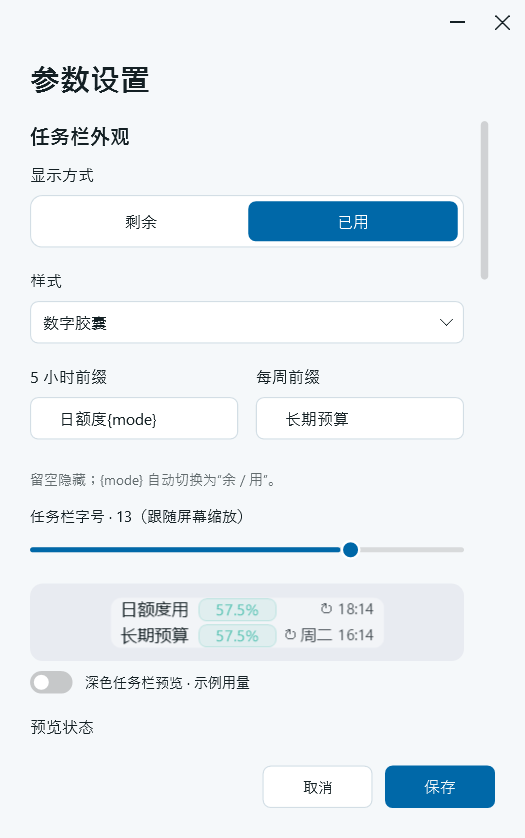
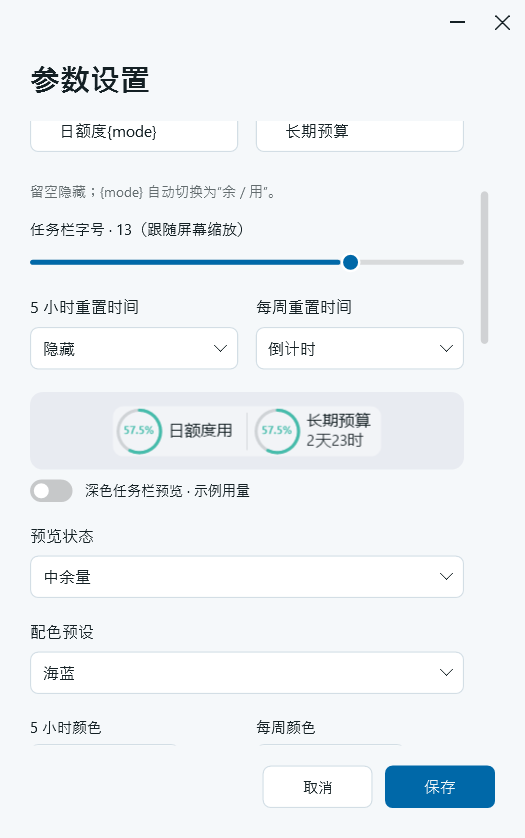
Update taskbar rings, reset date wrapping and portable package

diff --git a/MeterRenderer.cs b/MeterRenderer.cs
@@ -1,4 +1,4 @@
-using System;
+using System;
 using System.Drawing;
 using System.Drawing.Drawing2D;
 using System.Globalization;
@@ -20,26 +20,41 @@ namespace WindowsUsageWidget
             var text=ColorValue(p.TaskbarTextColor,dark?Color.FromArgb(239,246,248):Color.FromArgb(20,32,36));
             var background=ColorValue(p.TaskbarBackgroundColor,dark?Color.FromArgb(17,25,35):Color.White);
             var alpha=(int)(255*p.TaskbarBackgroundOpacity/100.0);
-            if(p.TaskbarStyle!="Cards"&&alpha>0)FillRound(g,new RectangleF(1,1,width-2,height-2),(float)(8*scale),Color.FromArgb(alpha,background));
+            if(p.TaskbarStyle!="Cards"&&p.TaskbarStyle!="Rings"&&alpha>0)FillRound(g,new RectangleF(1,1,width-2,height-2),(float)(8*scale),Color.FromArgb(alpha,background));
+            if(p.TaskbarStyle=="Rings")
+            {
+                var primary=snapshot==null?null:snapshot.Primary;var secondary=snapshot==null?null:snapshot.Secondary;
+                var gap=(int)Math.Round(6*scale);var maximum=(width-gap)/2;
+                var first=Math.Min(maximum,MeasureRingPanel(g,height,scale,primary,p,false));
+                var second=Math.Min(maximum,MeasureRingPanel(g,height,scale,secondary,p,true));
+                var total=first+second+gap;var start=(width-total)/2;
+                if(alpha>0)FillRound(g,new RectangleF(start,1,total,height-2),(float)(8*scale),Color.FromArgb(alpha,background));
+                DrawRingPanel(g,start,first,height,scale,primary,p,stale,text,dark,false);
+                DrawRingPanel(g,start+first+gap,second,height,scale,secondary,p,stale,text,dark,true);
+                var separator=start+first+gap/2;
+                using(var pen=new Pen(Color.FromArgb(35,text),1))g.DrawLine(pen,separator,(float)(6*scale),separator,height-(float)(6*scale));
+                return;
+            }
             var physicalFont=(float)Math.Min(p.TaskbarFontSize*scale,Math.Max(7,(height/2.0-1)*.9));
             using(var font=new Font("Segoe UI",physicalFont,FontStyle.Regular,GraphicsUnit.Pixel))
             {
-                DrawRow(g,font,width,p.TaskbarLabel(false),snapshot==null?null:snapshot.Primary,0,height/2,scale,p,stale,text,background,alpha,dark,false);
-                DrawRow(g,font,width,p.TaskbarLabel(true),snapshot==null?null:snapshot.Secondary,height/2,height-height/2,scale,p,stale,text,background,alpha,dark,true);
+                var resets=new[] { ResetText(snapshot==null?null:snapshot.Primary,p,false,true),ResetText(snapshot==null?null:snapshot.Secondary,p,true,true) };
+                DrawRow(g,font,width,p.TaskbarLabel(false),snapshot==null?null:snapshot.Primary,0,height/2,scale,p,stale,text,background,alpha,dark,false,resets);
+                DrawRow(g,font,width,p.TaskbarLabel(true),snapshot==null?null:snapshot.Secondary,height/2,height-height/2,scale,p,stale,text,background,alpha,dark,true,resets);
             }
         }
-        static void DrawRow(Graphics g,Font font,int totalWidth,string name,Limit value,int y,int height,double scale,Preferences p,bool stale,Color text,Color background,int alpha,bool dark,bool weekly)
+        static void DrawRow(Graphics g,Font font,int totalWidth,string name,Limit value,int y,int height,double scale,Preferences p,bool stale,Color text,Color background,int alpha,bool dark,bool weekly,string[] resets)
         {
             int pad=(int)Math.Round(6*scale),gap=(int)Math.Round(3*scale);
             using(var resetFont=new Font("Segoe UI",(float)Math.Max(7,font.Size-scale),FontStyle.Regular,GraphicsUnit.Pixel))
             {
             int number=(int)Math.Ceiling(Math.Max(g.MeasureString("100%",font).Width,g.MeasureString("99.9%",font).Width)+2*scale);
-            int resetWidth=(int)Math.Ceiling(g.MeasureString("↻ 周四 23:59",resetFont).Width+2*scale);
+            var resetCaption=ResetText(value,p,weekly,true);
+            int resetWidth=resets[0].Length==0&&resets[1].Length==0?0:Math.Min((int)(totalWidth*.42),(int)Math.Ceiling(Math.Max(g.MeasureString(resets[0],resetFont).Width,g.MeasureString(resets[1],resetFont).Width)+2*scale));
             var labelLimit=Math.Max(0,totalWidth-number-resetWidth-pad*2-gap*3-(int)(14*scale));
             var first=p.TaskbarLabel(false);var second=p.TaskbarLabel(true);
             int label=first.Length==0&&second.Length==0?0:Math.Min(labelLimit,(int)Math.Ceiling(Math.Max(g.MeasureString(first,font).Width,g.MeasureString(second,font).Width)+scale));
-            var accent=ColorValue(weekly?p.TaskbarSecondaryColor:p.TaskbarPrimaryColor,weekly?(dark?Color.FromArgb(162,181,255):Color.FromArgb(88,104,203)):(dark?Color.FromArgb(104,219,197):Color.FromArgb(0,128,107)));
-            var color=stale?ColorValue(p.TaskbarStaleColor,Color.FromArgb(225,92,92)):value!=null&&value.Remaining<=p.WarningPercent?ColorValue(p.TaskbarWarningColor,Color.FromArgb(235,176,72)):value!=null&&value.Remaining<=p.TaskbarMediumPercent?ColorValue(p.TaskbarMediumColor,dark?Color.FromArgb(230,207,135):Color.FromArgb(138,107,25)):accent;
+            var accent=Accent(p,dark,weekly);var color=QuotaColor(value,p,stale,dark,weekly);
             if(p.TaskbarStyle=="Cards")
             {
                 var card=new RectangleF(1,y+1,totalWidth-2,height-2);
@@ -55,12 +70,6 @@ namespace WindowsUsageWidget
                 var badge=new RectangleF(x,y+2,width+number+gap,height-4);
                 FillRound(g,badge,(float)(6*scale),Color.FromArgb(28,color));
                 using(var path=Round(badge,(float)(6*scale)))using(var pen=new Pen(Color.FromArgb(70,color),1))g.DrawPath(pen,path);
-            }
-            else if(p.TaskbarStyle=="Rings")
-            {
-                var diameter=Math.Min(height-6,(float)(13*scale));var ring=new RectangleF(x+(width-diameter)/2,y+(height-diameter)/2,diameter,diameter);
-                using(var pen=new Pen(track,(float)(2*scale)))g.DrawEllipse(pen,ring);
-                if(value!=null&&amount>0)using(var pen=new Pen(color,(float)(2*scale)) { StartCap=LineCap.Round,EndCap=LineCap.Round })g.DrawArc(pen,ring,-90,(float)(359.9*amount/100));
             }
             else if(p.TaskbarStyle=="Dots")
             {
@@ -101,9 +110,77 @@ namespace WindowsUsageWidget
             }
             var caption=value==null?"—":amount.ToString("0.#")+"%";
             using(var brush=new SolidBrush(value==null?text:color))using(var format=new StringFormat { Alignment=p.TaskbarStyle=="Badges"?StringAlignment.Center:StringAlignment.Far,LineAlignment=StringAlignment.Center,FormatFlags=StringFormatFlags.NoWrap })g.DrawString(caption,font,brush,p.TaskbarStyle=="Badges"?new RectangleF(x,y,width+number+gap,height):new RectangleF(x+width+gap,y,number,height),format);
-            using(var brush=new SolidBrush(Color.FromArgb(195,text)))
-            using(var format=new StringFormat { Alignment=StringAlignment.Far,LineAlignment=StringAlignment.Center,FormatFlags=StringFormatFlags.NoWrap })
-                g.DrawString(value==null?"↻ —":value.CompactReset(weekly),resetFont,brush,new RectangleF(totalWidth-resetWidth-pad,y,resetWidth,height),format);
+            using(var brush=new SolidBrush(text))
+            using(var format=new StringFormat { Alignment=StringAlignment.Far,LineAlignment=StringAlignment.Center,Trimming=StringTrimming.EllipsisCharacter,FormatFlags=StringFormatFlags.NoWrap })
+                if(resetWidth>0)g.DrawString(resetCaption,resetFont,brush,new RectangleF(totalWidth-resetWidth-pad,y,resetWidth,height),format);
+            }
+        }
+        static Color Accent(Preferences p,bool dark,bool weekly) { return ColorValue(weekly?p.TaskbarSecondaryColor:p.TaskbarPrimaryColor,weekly?(dark?Color.FromArgb(162,181,255):Color.FromArgb(88,104,203)):(dark?Color.FromArgb(104,219,197):Color.FromArgb(0,128,107))); }
+        static Color QuotaColor(Limit value,Preferences p,bool stale,bool dark,bool weekly)
+        {
+            return stale?ColorValue(p.TaskbarStaleColor,Color.FromArgb(225,92,92)):value!=null&&value.Remaining<=p.WarningPercent?ColorValue(p.TaskbarWarningColor,Color.FromArgb(235,176,72)):value!=null&&value.Remaining<=p.TaskbarMediumPercent?ColorValue(p.TaskbarMediumColor,dark?Color.FromArgb(230,207,135):Color.FromArgb(138,107,25)):Accent(p,dark,weekly);
+        }
+        static string ResetText(Limit value,Preferences p,bool weekly,bool icon)
+        {
+            var style=weekly?p.TaskbarWeeklyResetStyle:p.TaskbarPrimaryResetStyle;
+            if(style=="Hidden")return "";
+            return (icon?"↻ ":"")+(value==null?"—":value.ResetDisplay(style));
+        }
+        static void DrawRingPanel(Graphics g,int left,int width,int height,double scale,Limit value,Preferences p,bool stale,Color text,bool dark,bool weekly)
+        {
+            var state=g.Save();g.SetClip(new Rectangle(left,0,width,height));
+            try
+            {
+                var color=QuotaColor(value,p,stale,dark,weekly);var amount=value==null?0:Math.Max(0,Math.Min(100,p.ShowUsed?value.Used:value.Remaining));
+                var pad=(float)(4*scale);var diameter=Math.Max(8,Math.Min((float)(34*scale),height-(float)(6*scale)));
+                var circle=new RectangleF(left+pad,(height-diameter)/2,diameter,diameter);
+                using(var pen=new Pen(Color.FromArgb(dark?55:40,text),(float)(2.5*scale)))g.DrawEllipse(pen,circle);
+                if(value!=null&&amount>0)using(var pen=new Pen(color,(float)(2.5*scale)) { StartCap=LineCap.Round,EndCap=LineCap.Round })g.DrawArc(pen,circle,-90,(float)(359.9*amount/100));
+                var caption=value==null?"—":amount.ToString("0.#")+"%";
+                var numberSize=(float)Math.Min(p.TaskbarFontSize*scale,diameter*.36);
+                using(var probe=new Font("Segoe UI",numberSize,FontStyle.Bold,GraphicsUnit.Pixel))
+                {
+                    var measured=g.MeasureString(caption,probe).Width;var available=diameter-(float)(6*scale);
+                    if(measured>available)numberSize*=available/measured;
+                }
+                using(var numberFont=new Font("Segoe UI",Math.Max(6,numberSize),FontStyle.Bold,GraphicsUnit.Pixel))
+                using(var brush=new SolidBrush(value==null?text:color))
+                using(var format=new StringFormat { Alignment=StringAlignment.Center,LineAlignment=StringAlignment.Center,FormatFlags=StringFormatFlags.NoWrap })g.DrawString(caption,numberFont,brush,circle,format);
+                var reset=ResetText(value,p,weekly,false);var size=(float)Math.Min((p.TaskbarFontSize-1)*scale,Math.Max(7,(height/2.0-2)*.85));
+                var x=circle.Right+(float)(5*scale);var textWidth=Math.Max(1,left+width-pad-x);
+                var resetLines=reset.Length==0?new string[0]:new[] { reset };
+                using(var probe=new Font("Segoe UI",size,FontStyle.Regular,GraphicsUnit.Pixel))
+                {
+                    if(reset.Length>0&&g.MeasureString(reset,probe).Width>textWidth)
+                    {
+                        var split=reset.LastIndexOf(' ');
+                        if(split<0) { var day=reset.IndexOf('天');if(day>=0&&day<reset.Length-1)split=day+1; }
+                        if(split>0&&split<reset.Length-1)resetLines=new[] { reset.Substring(0,split).Trim(),reset.Substring(split).Trim() };
+                    }
+                }
+                var rows=1+resetLines.Length;
+                if(rows>2)size=(float)Math.Min(size,Math.Max(7,(height/(double)rows-.5)*.82));
+                using(var labelFont=new Font("Segoe UI",size,FontStyle.Regular,GraphicsUnit.Pixel))
+                using(var resetFont=new Font("Segoe UI",size,FontStyle.Regular,GraphicsUnit.Pixel))
+                using(var format=new StringFormat { Alignment=StringAlignment.Near,LineAlignment=StringAlignment.Center,Trimming=StringTrimming.EllipsisCharacter,FormatFlags=StringFormatFlags.NoWrap })
+                {
+                    var line=rows>2?height/(float)rows:(float)(16*scale);var top=(height-line*rows)/2;
+                    using(var brush=new SolidBrush(text))g.DrawString(p.TaskbarLabel(weekly),labelFont,brush,new RectangleF(x,top,textWidth,line),format);
+                    using(var brush=new SolidBrush(Color.FromArgb(225,text)))for(var i=0;i<resetLines.Length;i++)g.DrawString(resetLines[i],resetFont,brush,new RectangleF(x,top+line*(i+1),textWidth,line),format);
+                }
+            }
+            finally { g.Restore(state); }
+        }
+        static int MeasureRingPanel(Graphics g,int height,double scale,Limit value,Preferences p,bool weekly)
+        {
+            var size=(float)Math.Min((p.TaskbarFontSize-1)*scale,Math.Max(7,(height/2.0-2)*.85));
+            using(var font=new Font("Segoe UI",size,FontStyle.Regular,GraphicsUnit.Pixel))
+            {
+                var textWidth=g.MeasureString(p.TaskbarLabel(weekly),font).Width;
+                var reset=ResetText(value,p,weekly,false);
+                if(reset.Length>0)textWidth=Math.Max(textWidth,g.MeasureString(reset,font).Width);
+                var diameter=Math.Max(8,Math.Min((float)(34*scale),height-(float)(6*scale)));
+                return (int)Math.Ceiling(diameter+14*scale+textWidth);
             }
         }
         static GraphicsPath Round(RectangleF box,float radius)

diff --git a/AppearanceChecks.cs b/AppearanceChecks.cs
@@ -92,6 +92,36 @@ class AppearanceChecks
         }
         Require(true,"all styles render long custom labels and font sizes at 100,125,150,200 percent");
         File.WriteAllText(Path.Combine(folder,"dpi-render-checks.json"),serializer.Serialize(scaled));
+        var resetDefault=serializer.Deserialize<Preferences>("{}");resetDefault.Normalize();Require(resetDefault.TaskbarPrimaryResetStyle=="Clock"&&resetDefault.TaskbarWeeklyResetStyle=="Weekday","old reset configuration keeps clock and weekday");
+        var resetInvalid=new Preferences { TaskbarPrimaryResetStyle="bad",TaskbarWeeklyResetStyle=null };resetInvalid.Normalize();Require(resetInvalid.TaskbarPrimaryResetStyle=="Clock"&&resetInvalid.TaskbarWeeklyResetStyle=="Weekday","invalid reset styles fall back safely");
+        var epoch=new DateTime(1970,1,1,0,0,0,DateTimeKind.Utc);var reference=new DateTime(2026,10,10,0,0,0,DateTimeKind.Utc);
+        var resetLimit=new Limit { Reset=(long)(reference.AddDays(4).AddHours(23)-epoch).TotalSeconds };
+        Require(resetLimit.ResetDisplay("Countdown",reference)=="4天23时","weekly countdown uses days and hours");resetLimit.Reset=(long)(reference.AddHours(2).AddMinutes(3)-epoch).TotalSeconds;
+        Require(resetLimit.ResetDisplay("Countdown",reference)=="2时3分","short countdown uses hours and minutes");resetLimit.Reset=(long)(reference.AddSeconds(20)-epoch).TotalSeconds;Require(resetLimit.ResetDisplay("Countdown",reference)=="不足1分","sub-minute countdown remains visible");resetLimit.Reset=(long)(reference.AddSeconds(-1)-epoch).TotalSeconds;Require(resetLimit.ResetDisplay("Countdown",reference)=="待更新","expired countdown waits for server data");Require(new Limit().ResetDisplay("Countdown")=="—"&&resetLimit.ResetDisplay("Hidden")=="","unknown and hidden reset states");
+        var localReset=new DateTime(2026,10,15,14,27,0,DateTimeKind.Local);resetLimit.Reset=(long)(localReset.ToUniversalTime()-epoch).TotalSeconds;
+        Require(resetLimit.ResetDisplay("Clock")=="14:27"&&resetLimit.ResetDisplay("Weekday")=="周四 14:27"&&resetLimit.ResetDisplay("DateTime")=="10-15 14:27"&&resetLimit.ResetDisplay("Date")=="10-15","absolute reset formats use local time");
+        var resetStyles=new[] { "Weekday","Clock","Countdown","DateTime","Date","Hidden" };
+        using(var image=new Bitmap(820,530))using(var graphics=Graphics.FromImage(image))using(var title=new Font("Segoe UI",12))
+        {
+            graphics.Clear(Color.FromArgb(247,249,252));
+            for(var row=0;row<resetStyles.Length;row++)for(var col=0;col<2;col++)
+            {
+                var x=20+col*405;var y=10+row*86;graphics.DrawString(resetStyles[row]+(col==0?" / Light":" / Dark"),title,Brushes.DimGray,x,y);
+                var p=new Preferences { TaskbarStyle="Rings",TaskbarWeeklyResetStyle=resetStyles[row],TaskbarBackgroundOpacity=20 };
+                using(var tile=new Bitmap(360,42))using(var g=Graphics.FromImage(tile)) { g.Clear(col==0?Color.FromArgb(232,235,241):Color.FromArgb(32,35,42));MeterRenderer.Draw(g,260,42,1,sample,p,false,col==1);graphics.DrawImageUnscaled(tile,x,y+26); }
+            }
+            image.Save(Path.Combine(folder,"horizontal-rings-reset-preview.png"));
+        }
+        foreach(var style in resetStyles)foreach(var meterStyle in new[] { "Rounded","Segments","Cards","Dots","Gradient","Rings","Badges" })foreach(var factor in new[] { 1.0,1.25,1.5,2.0 })using(var image=new Bitmap((int)Math.Round(200*factor),(int)Math.Round(42*factor)))using(var g=Graphics.FromImage(image))
+        { var p=new Preferences { TaskbarStyle=meterStyle,TaskbarPrimaryResetStyle=style,TaskbarWeeklyResetStyle=style };MeterRenderer.Draw(g,image.Width,image.Height,factor,sample,p,false,true);MeterRenderer.Draw(g,image.Width,image.Height,factor,null,p,true,true); }
+        Require(true,"six reset formats render in all seven styles and four DPI scales");
+        using(var image=new Bitmap(260,42))using(var g=Graphics.FromImage(image))
+        {
+            var p=new Preferences { TaskbarStyle="Rings",TaskbarPrimaryColor="#FF3366",TaskbarSecondaryColor="#33AAFF" };MeterRenderer.Draw(g,260,42,1,sample,p,false,true);
+            var leftColor=false;var rightColor=false;
+            for(var y=0;y<image.Height;y++)for(var x=0;x<image.Width;x++) { var pixel=image.GetPixel(x,y);if(x<130&&pixel.R==255&&pixel.G==51&&pixel.B==102)leftColor=true;if(x>=130&&pixel.R==51&&pixel.G==170&&pixel.B==255)rightColor=true; }
+            Require(leftColor&&rightColor,"ring quotas render in separate left and right panels");
+        }
         var app=new Application();app.Resources.MergedDictionaries.Add(Styles.Create());
         var window=new SettingsWindow(new Preferences());Preferences saved=null;window.Saved+=delegate(Preferences p) { saved=p; };
         window.Loaded+=delegate
@@ -99,7 +129,9 @@ class AppearanceChecks
             try
             {
                 Require(Find<ComboBox>(window,"TaskbarStyle").Items.Count==7,"settings offers all seven styles");
-                Find<ComboBox>(window,"TaskbarStyle").SelectedIndex=6;
+                Find<ComboBox>(window,"TaskbarStyle").SelectedIndex=5;
+                Find<ComboBox>(window,"TaskbarPrimaryResetStyle").SelectedIndex=5;
+                Find<ComboBox>(window,"TaskbarWeeklyResetStyle").SelectedIndex=2;
                 var remaining=Find<RadioButton>(window,"QuotaRemaining");var used=Find<RadioButton>(window,"QuotaUsed");
                 used.IsChecked=true;Require(used.IsChecked==true&&remaining.IsChecked==false,"segmented switch selects used exclusively");
                 remaining.IsChecked=true;Require(used.IsChecked==false&&remaining.IsChecked==true,"segmented switch selects remaining exclusively");used.IsChecked=true;
@@ -114,14 +146,14 @@ class AppearanceChecks
                 Find<Slider>(window,"TaskbarMediumThreshold").Value=65;
                 Find<ComboBox>(window,"TaskbarPreviewState").SelectedIndex=1;
                 Find<ComboBox>(window,"TaskbarPreviewState").SelectedIndex=1;
-                Find<ScrollViewer>(window,"").ScrollToVerticalOffset(0);window.UpdateLayout();
+                Find<ScrollViewer>(window,"").ScrollToVerticalOffset(230);window.UpdateLayout();
                 var image=Find<System.Windows.Controls.Image>(window,"");var source=(System.Windows.Media.Imaging.BitmapSource)image.Source;var dpi=System.Windows.Media.VisualTreeHelper.GetDpi(window);
                 Require(source.PixelWidth==(int)Math.Round(220*dpi.DpiScaleX)&&Math.Abs(source.DpiX-96*dpi.DpiScaleX)<1,"preview rendered at current screen DPI without 96 DPI enlargement");
                 var capture=new System.Windows.Media.Imaging.RenderTargetBitmap((int)Math.Round(window.ActualWidth*dpi.DpiScaleX),(int)Math.Round(window.ActualHeight*dpi.DpiScaleY),96*dpi.DpiScaleX,96*dpi.DpiScaleY,System.Windows.Media.PixelFormats.Pbgra32);capture.Render(window);
                 var encoder=new System.Windows.Media.Imaging.PngBitmapEncoder();encoder.Frames.Add(System.Windows.Media.Imaging.BitmapFrame.Create(capture));using(var file=File.Create(Path.Combine(folder,"display-label-settings-preview.png")))encoder.Save(file);
                 Find<ComboBox>(window,"TaskbarPreviewState").SelectedIndex=3;
                 SaveButton(window).RaiseEvent(new RoutedEventArgs(Button.ClickEvent));
-                Require(saved!=null&&saved.TaskbarStyle=="Badges"&&saved.TaskbarPrimaryColor=="#1234AB"&&saved.TaskbarSecondaryColor=="#526CCC"&&saved.TaskbarBackgroundOpacity==45&&saved.TaskbarMediumColor=="#45BCAB"&&saved.TaskbarMediumPercent==65&&saved.ShowUsed&&saved.TaskbarPrimaryLabel=="日额度{mode}"&&saved.TaskbarSecondaryLabel=="长期预算"&&saved.TaskbarFontSize==13,"settings UI saves mode, custom labels, font size and appearance settings");
+                Require(saved!=null&&saved.TaskbarStyle=="Rings"&&saved.TaskbarPrimaryColor=="#1234AB"&&saved.TaskbarSecondaryColor=="#526CCC"&&saved.TaskbarBackgroundOpacity==45&&saved.TaskbarMediumColor=="#45BCAB"&&saved.TaskbarMediumPercent==65&&saved.ShowUsed&&saved.TaskbarPrimaryLabel=="日额度{mode}"&&saved.TaskbarSecondaryLabel=="长期预算"&&saved.TaskbarFontSize==13&&saved.TaskbarPrimaryResetStyle=="Hidden"&&saved.TaskbarWeeklyResetStyle=="Countdown","settings UI saves independent reset styles and horizontal ring selection");
                 File.WriteAllText(Path.Combine(folder,"appearance-checks.json"),serializer.Serialize(new { ok=true,checks=checks }));
             }
             catch(Exception e) { File.WriteAllText(Path.Combine(folder,"appearance-error.txt"),e.ToString());Environment.ExitCode=1;window.Close(); }

diff --git a/Data.cs b/Data.cs
@@ -24,6 +24,8 @@ namespace WindowsUsageWidget
         public string TaskbarPrimaryLabel { get; set; }
         public string TaskbarSecondaryLabel { get; set; }
         public int TaskbarFontSize { get; set; }
+        public string TaskbarPrimaryResetStyle { get; set; }
+        public string TaskbarWeeklyResetStyle { get; set; }
         public string TaskbarStyle { get; set; }
         public string TaskbarPrimaryColor { get; set; }
         public string TaskbarSecondaryColor { get; set; }
@@ -43,9 +45,9 @@ namespace WindowsUsageWidget
         public string CodexPath { get; set; }
         public int? X { get; set; }
         public int? Y { get; set; }
-        public Preferences() { RefreshSeconds=60; WarningPercent=20; AlwaysOnTop=true; StartMinimized=true; TaskbarQuota="Primary"; TaskbarSide="Right"; TaskbarMeterWidth=220; TaskbarPrimaryLabel="5小时{mode}";TaskbarSecondaryLabel="每周{mode}";TaskbarFontSize=12;TaskbarStyle="Rounded";TaskbarPrimaryColor="Auto";TaskbarSecondaryColor="Auto";TaskbarTextColor="Auto";TaskbarBackgroundColor="Auto";TaskbarWarningColor="#EBB048";TaskbarStaleColor="#E15C5C";TaskbarMediumColor="Auto";TaskbarMediumPercent=50;Theme="System"; Material="Solid"; AcrylicTintPercent=18; OpacityPercent=100; Width=360; Height=390; CodexPath=""; }
+        public Preferences() { RefreshSeconds=60; WarningPercent=20; AlwaysOnTop=true; StartMinimized=true; TaskbarQuota="Primary"; TaskbarSide="Right"; TaskbarMeterWidth=220; TaskbarPrimaryLabel="5小时{mode}";TaskbarSecondaryLabel="每周{mode}";TaskbarFontSize=12;TaskbarPrimaryResetStyle="Clock";TaskbarWeeklyResetStyle="Weekday";TaskbarStyle="Rounded";TaskbarPrimaryColor="Auto";TaskbarSecondaryColor="Auto";TaskbarTextColor="Auto";TaskbarBackgroundColor="Auto";TaskbarWarningColor="#EBB048";TaskbarStaleColor="#E15C5C";TaskbarMediumColor="Auto";TaskbarMediumPercent=50;Theme="System"; Material="Solid"; AcrylicTintPercent=18; OpacityPercent=100; Width=360; Height=390; CodexPath=""; }
         public static string FilePath { get { return Path.Combine(AppDomain.CurrentDomain.BaseDirectory, "settings.json"); } }
-        public void Normalize() { RefreshSeconds=Clamp(RefreshSeconds,15,3600); WarningPercent=Clamp(WarningPercent,0,100); AcrylicTintPercent=Clamp(AcrylicTintPercent,0,100); OpacityPercent=Clamp(OpacityPercent,50,100); Width=Clamp(Width,320,520); Height=Clamp(Height,390,650); TaskbarMeterWidth=Clamp(TaskbarMeterWidth,200,380);TaskbarOffset=Clamp(TaskbarOffset,-1200,1200);if(TaskbarSide!="Left")TaskbarSide="Right"; if(TaskbarQuota!="Secondary")TaskbarQuota="Primary"; if(Theme!="Dark"&&Theme!="Light")Theme="System"; if(Material!="Transparent")Material="Solid";if(Array.IndexOf(new[] { "Rounded","Segments","Cards","Dots","Gradient","Rings","Badges" },TaskbarStyle)<0)TaskbarStyle="Rounded";TaskbarBackgroundOpacity=Clamp(TaskbarBackgroundOpacity,0,100);TaskbarPrimaryColor=NormalizeColor(TaskbarPrimaryColor,"Auto");TaskbarSecondaryColor=NormalizeColor(TaskbarSecondaryColor,"Auto");TaskbarTextColor=NormalizeColor(TaskbarTextColor,"Auto");TaskbarBackgroundColor=NormalizeColor(TaskbarBackgroundColor,"Auto");TaskbarWarningColor=NormalizeColor(TaskbarWarningColor,"#EBB048");TaskbarStaleColor=NormalizeColor(TaskbarStaleColor,"#E15C5C");TaskbarMediumColor=NormalizeColor(TaskbarMediumColor,"Auto");TaskbarMediumPercent=Clamp(TaskbarMediumPercent,WarningPercent,100);TaskbarFontSize=Clamp(TaskbarFontSize,10,14);TaskbarPrimaryLabel=NormalizeLabel(TaskbarPrimaryLabel,"5小时{mode}");TaskbarSecondaryLabel=NormalizeLabel(TaskbarSecondaryLabel,"每周{mode}"); }
+        public void Normalize() { RefreshSeconds=Clamp(RefreshSeconds,15,3600); WarningPercent=Clamp(WarningPercent,0,100); AcrylicTintPercent=Clamp(AcrylicTintPercent,0,100); OpacityPercent=Clamp(OpacityPercent,50,100); Width=Clamp(Width,320,520); Height=Clamp(Height,390,650); TaskbarMeterWidth=Clamp(TaskbarMeterWidth,200,380);TaskbarOffset=Clamp(TaskbarOffset,-1200,1200);if(TaskbarSide!="Left")TaskbarSide="Right"; if(TaskbarQuota!="Secondary")TaskbarQuota="Primary"; if(Theme!="Dark"&&Theme!="Light")Theme="System"; if(Material!="Transparent")Material="Solid";if(Array.IndexOf(new[] { "Rounded","Segments","Cards","Dots","Gradient","Rings","Badges" },TaskbarStyle)<0)TaskbarStyle="Rounded";TaskbarBackgroundOpacity=Clamp(TaskbarBackgroundOpacity,0,100);TaskbarPrimaryColor=NormalizeColor(TaskbarPrimaryColor,"Auto");TaskbarSecondaryColor=NormalizeColor(TaskbarSecondaryColor,"Auto");TaskbarTextColor=NormalizeColor(TaskbarTextColor,"Auto");TaskbarBackgroundColor=NormalizeColor(TaskbarBackgroundColor,"Auto");TaskbarWarningColor=NormalizeColor(TaskbarWarningColor,"#EBB048");TaskbarStaleColor=NormalizeColor(TaskbarStaleColor,"#E15C5C");TaskbarMediumColor=NormalizeColor(TaskbarMediumColor,"Auto");TaskbarMediumPercent=Clamp(TaskbarMediumPercent,WarningPercent,100);TaskbarFontSize=Clamp(TaskbarFontSize,10,14);TaskbarPrimaryLabel=NormalizeLabel(TaskbarPrimaryLabel,"5小时{mode}");TaskbarSecondaryLabel=NormalizeLabel(TaskbarSecondaryLabel,"每周{mode}");TaskbarPrimaryResetStyle=NormalizeResetStyle(TaskbarPrimaryResetStyle,"Clock");TaskbarWeeklyResetStyle=NormalizeResetStyle(TaskbarWeeklyResetStyle,"Weekday"); }
         static string NormalizeLabel(string value,string fallback)
         {
             if(value==null)return fallback;
@@ -54,6 +56,7 @@ namespace WindowsUsageWidget
             return elements.Length>24?value.Substring(0,elements[24]):value;
         }
         public string TaskbarLabel(bool weekly) { return (weekly?TaskbarSecondaryLabel:TaskbarPrimaryLabel).Replace("{mode}",ShowUsed?"用":"余"); }
+        public static string NormalizeResetStyle(string value,string fallback) { return Array.IndexOf(new[] { "Weekday","Clock","Countdown","DateTime","Date","Hidden" },value)>=0?value:fallback; }
         public static bool IsColor(string value)
         {
             if(string.Equals(value,"Auto",StringComparison.OrdinalIgnoreCase))return true;
@@ -99,10 +102,26 @@ namespace WindowsUsageWidget
         }
         public string CompactReset(bool weekly)
         {
-            if(Reset<=0)return "↻ —";
+            return "↻ "+ResetDisplay(weekly?"Weekday":"Clock");
+        }
+        public string ResetDisplay(string style) { return ResetDisplay(style,DateTime.UtcNow); }
+        public string ResetDisplay(string style,DateTime utcNow)
+        {
+            if(style=="Hidden")return "";
+            if(Reset<=0)return "—";
+            if(style=="Countdown")
+            {
+                var seconds=Reset-(utcNow-new DateTime(1970,1,1,0,0,0,DateTimeKind.Utc)).TotalSeconds;
+                if(seconds<=0)return "待更新";
+                var left=TimeSpan.FromSeconds(seconds);
+                return left.TotalDays>=1?((int)left.TotalDays)+"天"+left.Hours+"时":left.TotalHours>=1?((int)left.TotalHours)+"时"+left.Minutes+"分":left.TotalMinutes>=1?((int)left.TotalMinutes)+"分":"不足1分";
+            }
             var absolute=new DateTime(1970,1,1,0,0,0,DateTimeKind.Utc).AddSeconds(Reset).ToLocalTime();
             var time=absolute.ToString("HH:mm",System.Globalization.CultureInfo.InvariantCulture);
-            return "↻ "+(weekly?"周"+"日一二三四五六"[(int)absolute.DayOfWeek]+" ":"")+time;
+            if(style=="Weekday")return "周"+"日一二三四五六"[(int)absolute.DayOfWeek]+" "+time;
+            if(style=="DateTime")return absolute.ToString("MM-dd HH:mm",System.Globalization.CultureInfo.InvariantCulture);
+            if(style=="Date")return absolute.ToString("MM-dd",System.Globalization.CultureInfo.InvariantCulture);
+            return time;
         }
     }
     public class Snapshot

diff --git a/SettingsWindow.cs b/SettingsWindow.cs
@@ -68,6 +68,12 @@ namespace WindowsUsageWidget
             var labelNote=UI.Text("留空隐藏；{mode} 自动切换为“余 / 用”。",11);labelNote.Opacity=.65;labelNote.Margin=new Thickness(0,0,0,14);panel.Children.Add(labelNote);
             var fontSize=new Slider { Name="TaskbarFontSize",Minimum=10,Maximum=14,Value=draft.TaskbarFontSize,TickFrequency=1,IsSnapToTickEnabled=true,Height=26 };
             var fontLabel=UI.Text("",12);fontLabel.Margin=new Thickness(0,0,0,6);panel.Children.Add(fontLabel);fontSize.Margin=new Thickness(0,0,0,14);panel.Children.Add(fontSize);
+            var resetIds=new[] { "Weekday","Clock","Countdown","DateTime","Date","Hidden" };
+            var resetNames=new[] { "星期＋时刻","时刻","倒计时","日期＋时刻","日期","隐藏" };
+            var primaryReset=Choice(resetNames,Math.Max(0,Array.IndexOf(resetIds,draft.TaskbarPrimaryResetStyle)));primaryReset.Name="TaskbarPrimaryResetStyle";
+            var weeklyReset=Choice(resetNames,Math.Max(0,Array.IndexOf(resetIds,draft.TaskbarWeeklyResetStyle)));weeklyReset.Name="TaskbarWeeklyResetStyle";
+            var resetGrid=new Grid();resetGrid.ColumnDefinitions.Add(new ColumnDefinition());resetGrid.ColumnDefinitions.Add(new ColumnDefinition());
+            for(var column=0;column<2;column++) { var stack=new StackPanel { Margin=column==0?new Thickness(0,0,7,0):new Thickness(7,0,0,0) };Add(stack,column==0?"5 小时重置时间":"每周重置时间",column==0?primaryReset:weeklyReset);Grid.SetColumn(stack,column);resetGrid.Children.Add(stack); }panel.Children.Add(resetGrid);
             var image=new System.Windows.Controls.Image { Height=42,Stretch=Stretch.None,HorizontalAlignment=HorizontalAlignment.Center };
             var frame=new Border { Child=image,CornerRadius=new CornerRadius(10),Padding=new Thickness(8,10,8,10),Margin=new Thickness(0,0,0,8) };panel.Children.Add(frame);
             var darkPreview=new CheckBox { Name="TaskbarPreviewDark",Content="深色任务栏预览 · 示例用量",IsChecked=UI.Dark(draft),FontSize=11,Margin=new Thickness(0,0,0,18) };panel.Children.Add(darkPreview);
@@ -109,6 +115,7 @@ namespace WindowsUsageWidget
             {
                 p.TaskbarStyle=styleIds[Math.Max(0,style.SelectedIndex)];
                 p.ShowUsed=used.IsChecked==true;p.TaskbarPrimaryLabel=firstLabel.Text;p.TaskbarSecondaryLabel=secondLabel.Text;p.TaskbarFontSize=(int)fontSize.Value;
+                p.TaskbarPrimaryResetStyle=resetIds[Math.Max(0,primaryReset.SelectedIndex)];p.TaskbarWeeklyResetStyle=resetIds[Math.Max(0,weeklyReset.SelectedIndex)];
                 p.TaskbarPrimaryColor=fields[0].Text.Trim();p.TaskbarSecondaryColor=fields[1].Text.Trim();p.TaskbarTextColor=fields[2].Text.Trim();p.TaskbarBackgroundColor=fields[3].Text.Trim();p.TaskbarWarningColor=fields[4].Text.Trim();p.TaskbarStaleColor=fields[5].Text.Trim();p.TaskbarBackgroundOpacity=(int)opacity.Value;
                 p.TaskbarMediumColor=fields[6].Text.Trim();p.TaskbarMediumPercent=(int)medium.Value;
             };
@@ -134,6 +141,7 @@ namespace WindowsUsageWidget
             style.SelectionChanged+=delegate { preview(); };darkPreview.Checked+=delegate { preview(); };darkPreview.Unchecked+=delegate { preview(); };opacity.ValueChanged+=delegate { preview(); };
             previewState.SelectionChanged+=delegate { preview(); };medium.ValueChanged+=delegate { preview(); };
             remainingChoice.Checked+=delegate { preview(); };used.Checked+=delegate { preview(); };firstLabel.TextChanged+=delegate { preview(); };secondLabel.TextChanged+=delegate { preview(); };fontSize.ValueChanged+=delegate { preview(); };SourceInitialized+=delegate { preview(); };DpiChanged+=delegate { preview(); };
+            primaryReset.SelectionChanged+=delegate { preview(); };weeklyReset.SelectionChanged+=delegate { preview(); };
             foreach(var input in fields)input.TextChanged+=delegate { preview(); };
             palette.SelectionChanged+=delegate
             {

diff --git a/README.md b/README.md
@@ -2,6 +2,8 @@
 
 一个简洁的 Windows 任务栏 Codex 用量组件。通过本机已登录的 Codex 后台程序读取账号额度，显示 5 小时和每周用量、进度及重置时间。
 
+[下载最新 Release](https://github.com/CodeWithiYouth/codex-usage-widget/releases/latest) · [自动构建](https://github.com/CodeWithiYouth/codex-usage-widget/actions/workflows/build-release.yml)
+
 使用 C#、WPF、WinForms 和 Windows 自带的 .NET Framework 4.8。无需 Node.js、Visual Studio、WinUI 或 Windows App SDK；编译出的主程序约 127 KB，不捆绑运行库。
 
 ## 外观
@@ -11,6 +13,8 @@
 支持圆角进度条、分段进度条、双行卡片、点阵、渐变、环形仪表和数字胶囊。可以分别调整两类额度、文字、背景、中余量、低余量及过期数据颜色，支持配色预设、选色器和十六进制输入。
 
 “剩余 / 已用”双选开关同时作用于任务栏和详细窗口。两行前缀可以自定义；`{mode}` 自动替换为“余 / 用”，留空隐藏。支持字号、宽度、左右位置、偏移和背景不透明度调整，设置中有即时预览。
+
+环形仪表采用紧凑左右布局，百分比显示在圆心，右侧显示标题与重置时间。5 小时和每周时间分别支持星期＋时刻、时刻、倒计时、日期＋时刻、日期和隐藏六种格式；放不下的日期时间自动分行，避免只显示省略号。
 
 ![设置窗口，使用模拟数据](settings.png)
 
@@ -77,6 +81,16 @@ powershell.exe -NoProfile -ExecutionPolicy Bypass -File .\build.ps1
 ```
 
 检查结果和测试图片写入 `dist/`。外观检查覆盖旧配置迁移、配色、阈值优先级、七种样式、显示开关、自定义前缀、字号和 DPI 预览。
+
+## 自动构建和发布
+
+提交到 `main` 或创建 PR 会自动构建 Windows x64 EXE、执行无需登录的基础检查，并保存构建产物。CI 不读取账号用量，也不运行需要桌面窗口的外观检查。
+
+推送 `v1.0.0` 等版本标签，会在构建检查通过后自动发布 Release。也可以打开 Actions → Build and Release → Run workflow，在 `release_tag` 中输入新版本号；留空只构建。当前版本号必须使用 `v主版本.次版本.修订版本` 格式，可带预发布后缀。
+
+Release 附件包含独立 EXE、带说明与启动脚本的便携 ZIP、`SHA256SUMS.txt`。下载后双击 EXE，或解压 ZIP 后运行 `Start.cmd`。已有 Release 不会被重复运行覆盖；更新请使用新版本号。
+
+本地打包：先运行 `build.ps1`，再运行 `package.ps1 -Version v1.0.0`，附件生成于 `dist/release/`。
 
 ## 源码
 
